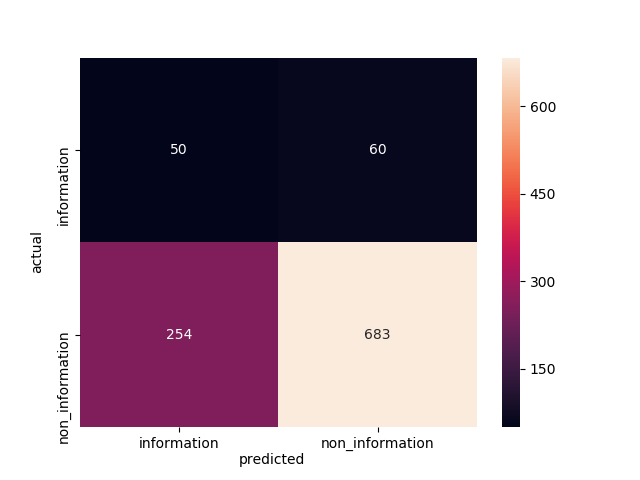
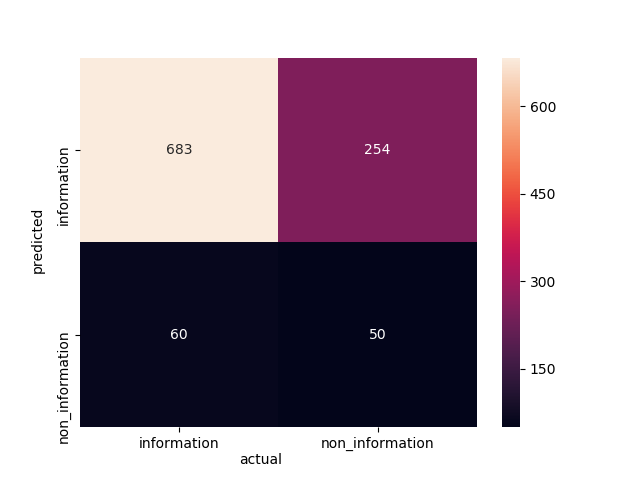
shame on me https://scikit-learn.org/stable/modules/generated/sklearn.metrics.confusion_matrix.html

diff --git a/src/plot_utils.py b/src/plot_utils.py
@@ -9,8 +9,8 @@ from src.csv_utils import commentparser, labelparser
 def saveHeatmap(cm, name):
     sns.heatmap(cm, square=False, annot=True, cbar=True, fmt="d", xticklabels=["information", "non_information"],
                 yticklabels=["information", "non_information"])
-    plt.text(-0.25, 1.15, 'actual', rotation=90)
-    plt.text(0.8, 2.2, 'predicted')
+    plt.text(-0.25, 1.15, 'predicted', rotation=90)
+    plt.text(0.8, 2.2, 'actual')
     plt.savefig(img_outpath + 'heatmap_' + name)
     plt.clf()
 

diff --git a/src/classifier.py b/src/classifier.py
@@ -34,7 +34,7 @@ def classify():
 
         result = cross_val_predict(pipe, comments, labels, cv=KFold(n_splits=10))
 
-        cm = confusion_matrix(result, labels, [non_information, information])
+        cm = confusion_matrix(result, labels, [information, non_information])
         saveHeatmap(cm, i.__name__)
 
         print(i.__name__)
